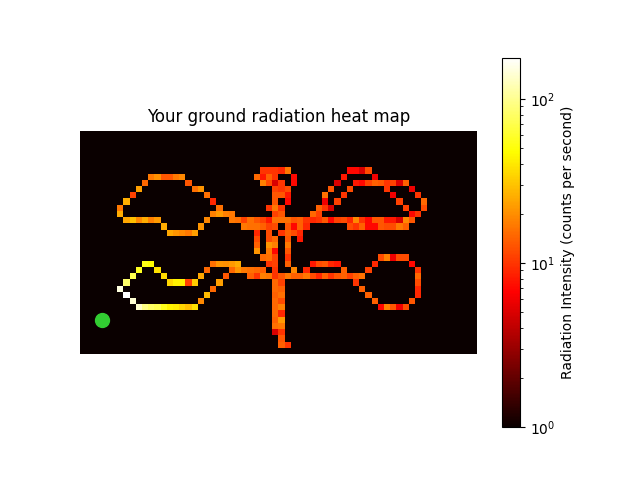
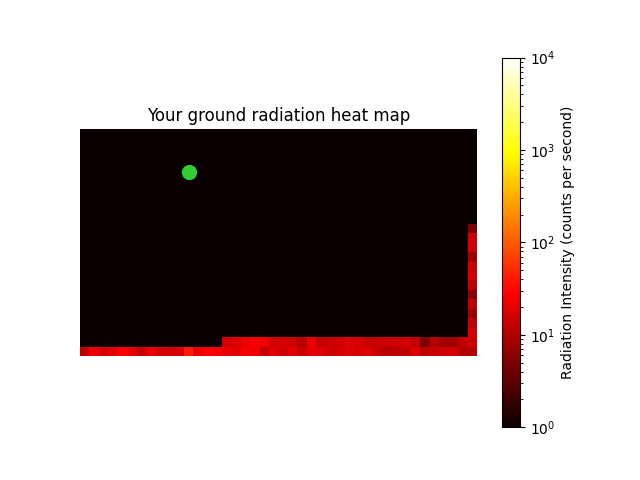
fixed scale on heatmaps added

diff --git a/radmapper.py b/radmapper.py
@@ -502,16 +502,26 @@ def main(screen):
 
         if current_state == GAME_OVER:
             if heatmap_image is None:
+                if extension == "aerial":
+                    max_v = 150
+                else:
+                    max_v = 10000
                 # Save the heatmap plot as an image
                 plt.Figure(figsize=(GRID_HEIGHT, GRID_HEIGHT))
-                plt.imshow(count_data + 1, cmap='hot', interpolation='nearest', norm=LogNorm())
+                if extension == "aerial":
+                    plt.imshow(count_data + 1, cmap='hot', interpolation='nearest', vmin=1, vmax=max_v)
+                else:
+                    plt.imshow(count_data + 1, cmap='hot', interpolation='nearest', norm=LogNorm(vmin=1, vmax=max_v))
                 plt.colorbar().set_label('Radiation Intensity (counts per second)')
                 plt.title('Your Radiation Heat Map')
                 plt.axis('off')
                 plt.savefig(f'plots/heatmap_{extension}.png')  # Save the plot as an image
                 plt.close()
                 # show source
-                plt.imshow(count_data + 1, cmap='hot', interpolation='nearest', norm=LogNorm())
+                if extension == "aerial":
+                    plt.imshow(count_data + 1, cmap='hot', interpolation='nearest', vmin=1, vmax=max_v)
+                else:
+                    plt.imshow(count_data + 1, cmap='hot', interpolation='nearest', norm=LogNorm(vmin=1, vmax=max_v))
                 plt.colorbar().set_label('Radiation Intensity (counts per second)')
                 plt.title(f'Your {extension} radiation heat map')
                 plt.scatter(source_x, source_y, c='limegreen', s=100)

diff --git a/radmapperdev.py b/radmapperdev.py
@@ -502,16 +502,26 @@ def main(screen):
 
         if current_state == GAME_OVER:
             if heatmap_image is None:
+                if extension == "aerial":
+                    max_v = 150
+                else:
+                    max_v = 10000
                 # Save the heatmap plot as an image
                 plt.Figure(figsize=(GRID_HEIGHT, GRID_HEIGHT))
-                plt.imshow(count_data + 1, cmap='hot', interpolation='nearest', norm=LogNorm())
+                if extension == "aerial":
+                    plt.imshow(count_data + 1, cmap='hot', interpolation='nearest', vmin=1, vmax=max_v)
+                else:
+                    plt.imshow(count_data + 1, cmap='hot', interpolation='nearest', norm=LogNorm(vmin=1, vmax=max_v))
                 plt.colorbar().set_label('Radiation Intensity (counts per second)')
                 plt.title('Your Radiation Heat Map')
                 plt.axis('off')
                 plt.savefig(f'plots/heatmap_{extension}.png')  # Save the plot as an image
                 plt.close()
                 # show source
-                plt.imshow(count_data + 1, cmap='hot', interpolation='nearest', norm=LogNorm())
+                if extension == "aerial":
+                    plt.imshow(count_data + 1, cmap='hot', interpolation='nearest', vmin=1, vmax=max_v)
+                else:
+                    plt.imshow(count_data + 1, cmap='hot', interpolation='nearest', norm=LogNorm(vmin=1, vmax=max_v))
                 plt.colorbar().set_label('Radiation Intensity (counts per second)')
                 plt.title(f'Your {extension} radiation heat map')
                 plt.scatter(source_x, source_y, c='limegreen', s=100)
